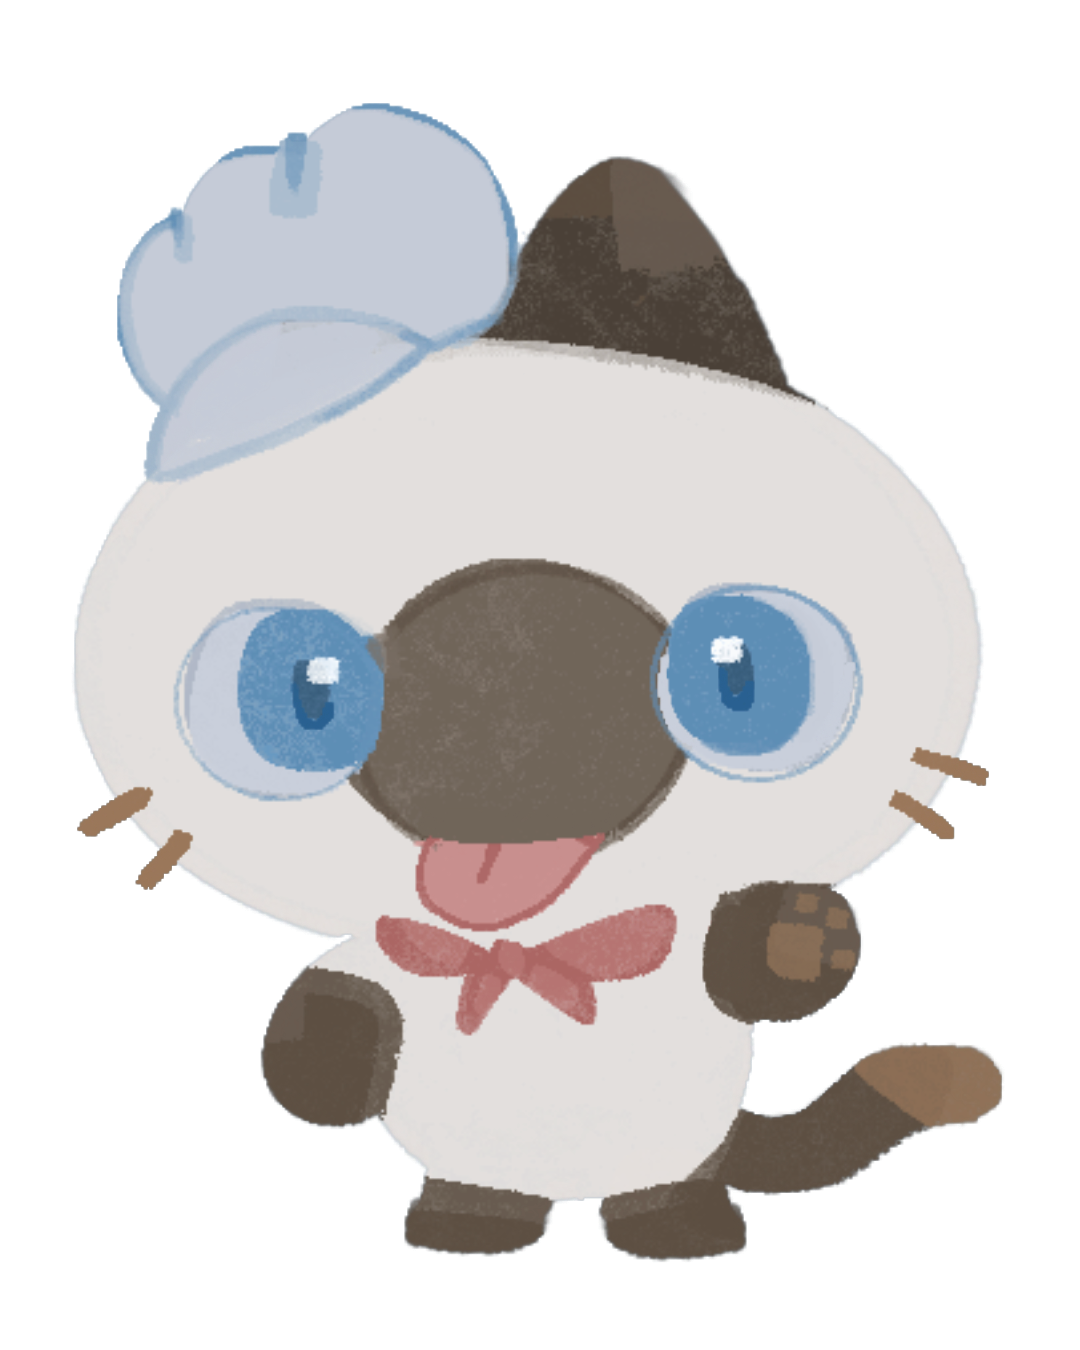
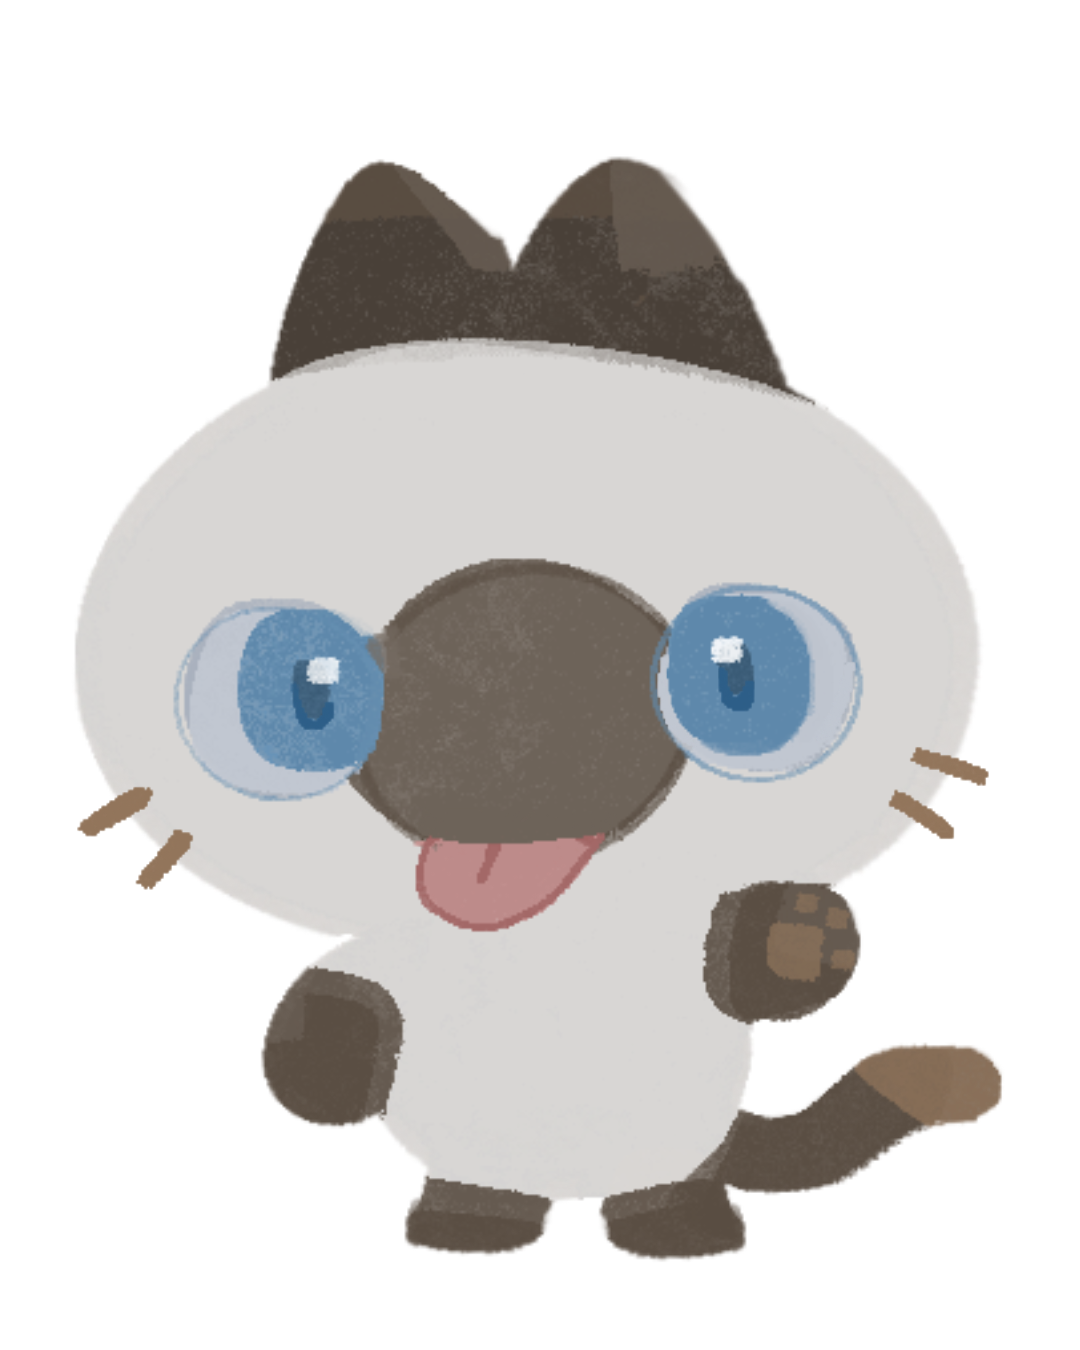
모카 이미지 갱신 및 컨테이너 배경 베이지 변경
- Mocka.png 새 버전으로 교체 (투명 배경)
- .moka-wrap background: #2c1810 → #f5efe6 (게임 배경 베이지)
- drop-shadow 세기 조정 (rgba 0.3 → 0.15)
- mix-blend-mode / filter 완전 제거 (이미 없던 상태 확인)

diff --git a/index.html b/index.html
@@ -161,9 +161,9 @@ body {
 .moka-wrap {
   display: flex; flex-direction: column;
   align-items: center; gap: 3px;
-  filter: drop-shadow(0 6px 14px rgba(0,0,0,.3));
+  filter: drop-shadow(0 4px 10px rgba(0,0,0,.15));
   animation: breathe 3s ease-in-out infinite;
-  background: #2c1810;
+  background: #f5efe6;
   border-radius: 20px;
   padding: 10px 8px 4px;
   position: relative;
